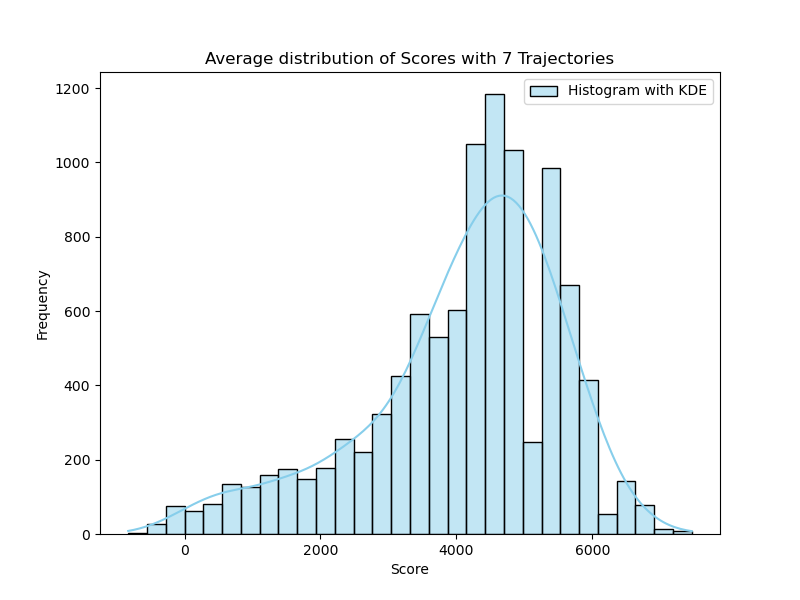
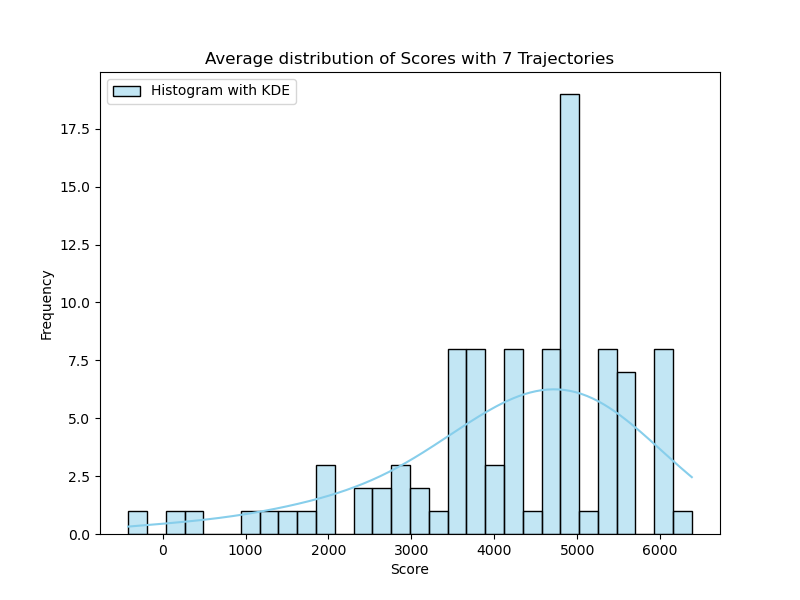
small changes
changed a few words

diff --git a/code/algorithms/random_start_random_choice.py b/code/algorithms/random_start_random_choice.py
@@ -64,14 +64,14 @@ def generate_trajectory(connection_object_dict, possible_connections_dict, neede
                 possible_stations = possible_connections_dict[departure_station]
                 for station in possible_stations:
                     if departure_station + '-' + station in new_needed_connections_dict:
-                        connection_object = connection_object_dict[departure_station + "-" + station]
+                        connection_object = new_needed_connections_dict[departure_station + "-" + station]
                         #TODO: make sure to try other stations instead of returning
                         # if duration time goes over 120: don't add connection and return list
                         if duration + connection_object.duration > 120:
                             return objects, new_needed_connections_dict
 
                         # add object, count duration and remove connection from needed connections
-                        objects.append(needed_connections_dict[departure_station + '-' + station])
+                        objects.append(connection_object)
                         duration += connection_object.duration
                         new_needed_connections_dict.pop(departure_station + '-' + station)
                         break

diff --git a/main.py b/main.py
@@ -60,12 +60,12 @@ if __name__ == "__main__":
     print(dataframe2)
 
     # find average values from the baseline algorithms
-    total_score, total_connections, baseline_dataframe = prepare_data_baseline(10000,
+    total_score, total_connections, baseline_dataframe = prepare_data_baseline(100,
         full_connection_dict, original_connection_dict, possible_directions,
         choose_random_connections)
 
     score_7_trajectories, connections_7_trajectories, dataframe_7_trajectories = prepare_data_baseline(
-        10000, full_connection_dict, original_connection_dict, possible_directions,
+        100, full_connection_dict, original_connection_dict, possible_directions,
         choose_random_connections, False)
 
     # set correct amount of bins
